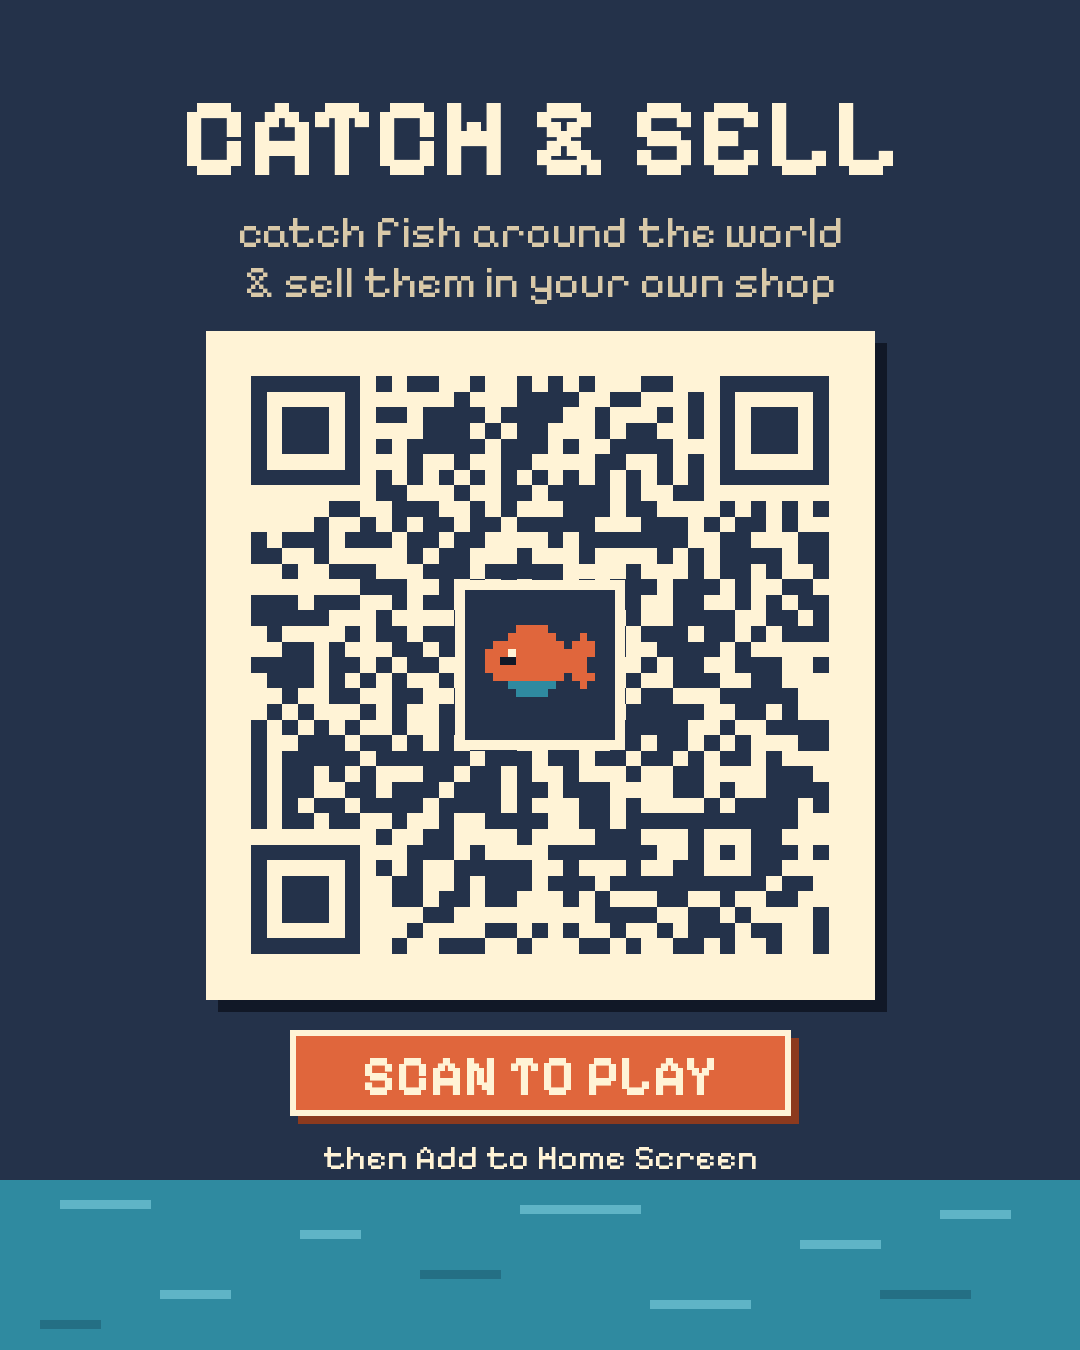
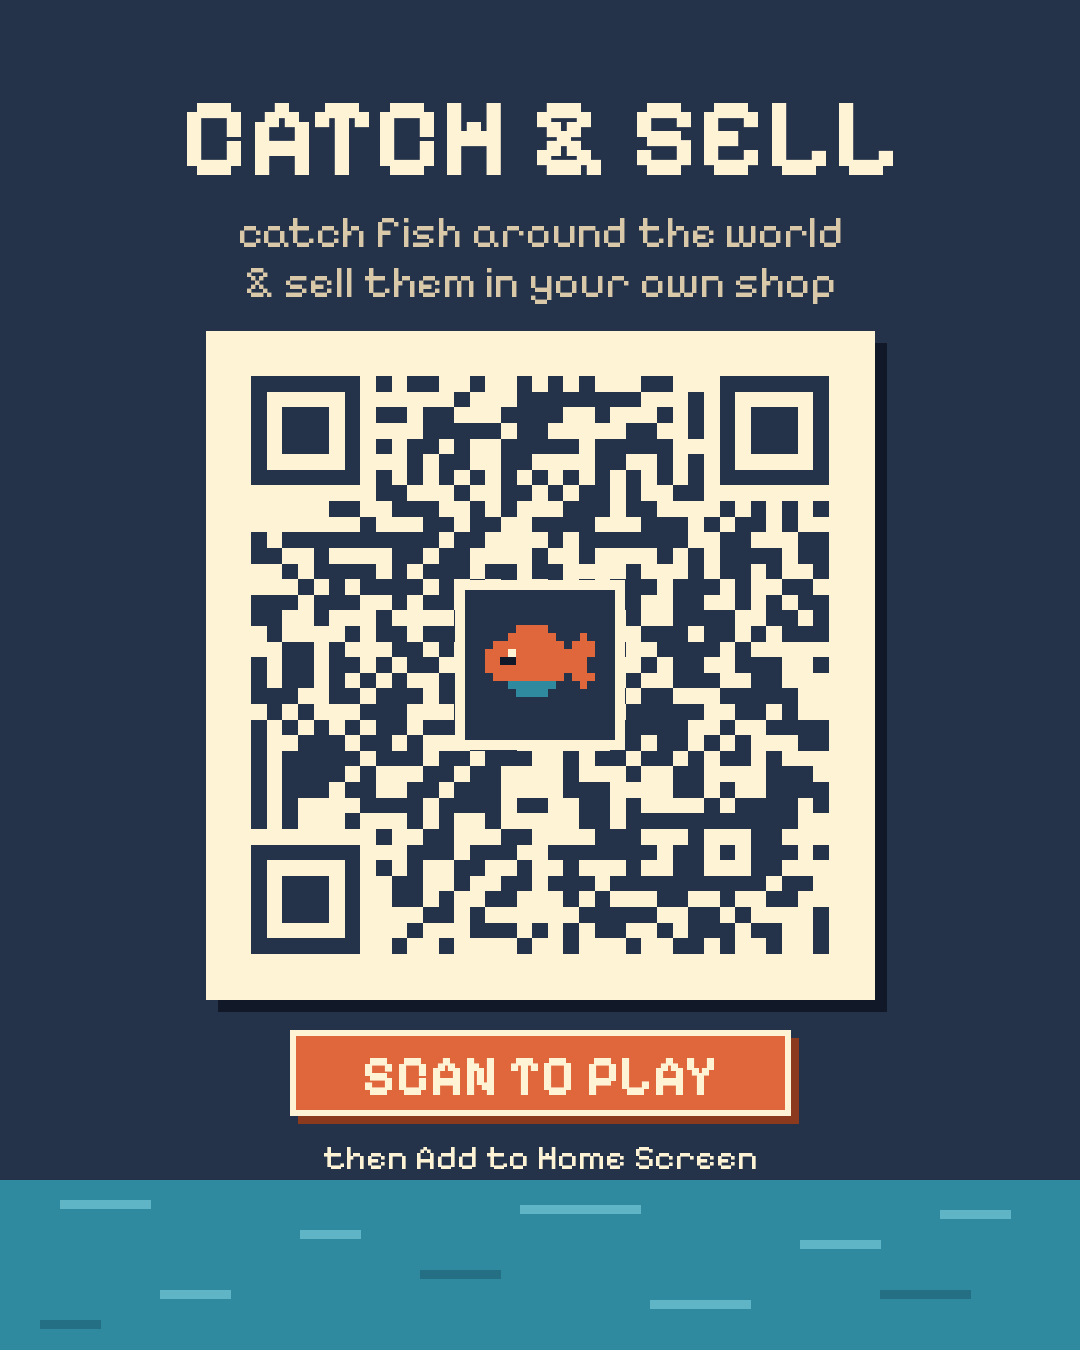
Point QR card and README at the case-sensitive Pages URL (Catch-and-sell)
Claude-Session: https://claude.ai/code/session_014kswNm19VNn3bvJfH1yJTX

diff --git a/README.md b/README.md
@@ -2,7 +2,7 @@
 
 A cozy phone game: catch fish from around the world and sell them in your own shop.
 
-**▶ Play it: https://andrehiu.github.io/catch-and-sell/**
+**▶ Play it: https://andrehiu.github.io/Catch-and-sell/**
 
 ## Add to home screen
 - **iPhone:** open the link in **Safari** → Share → **Add to Home Screen**.
